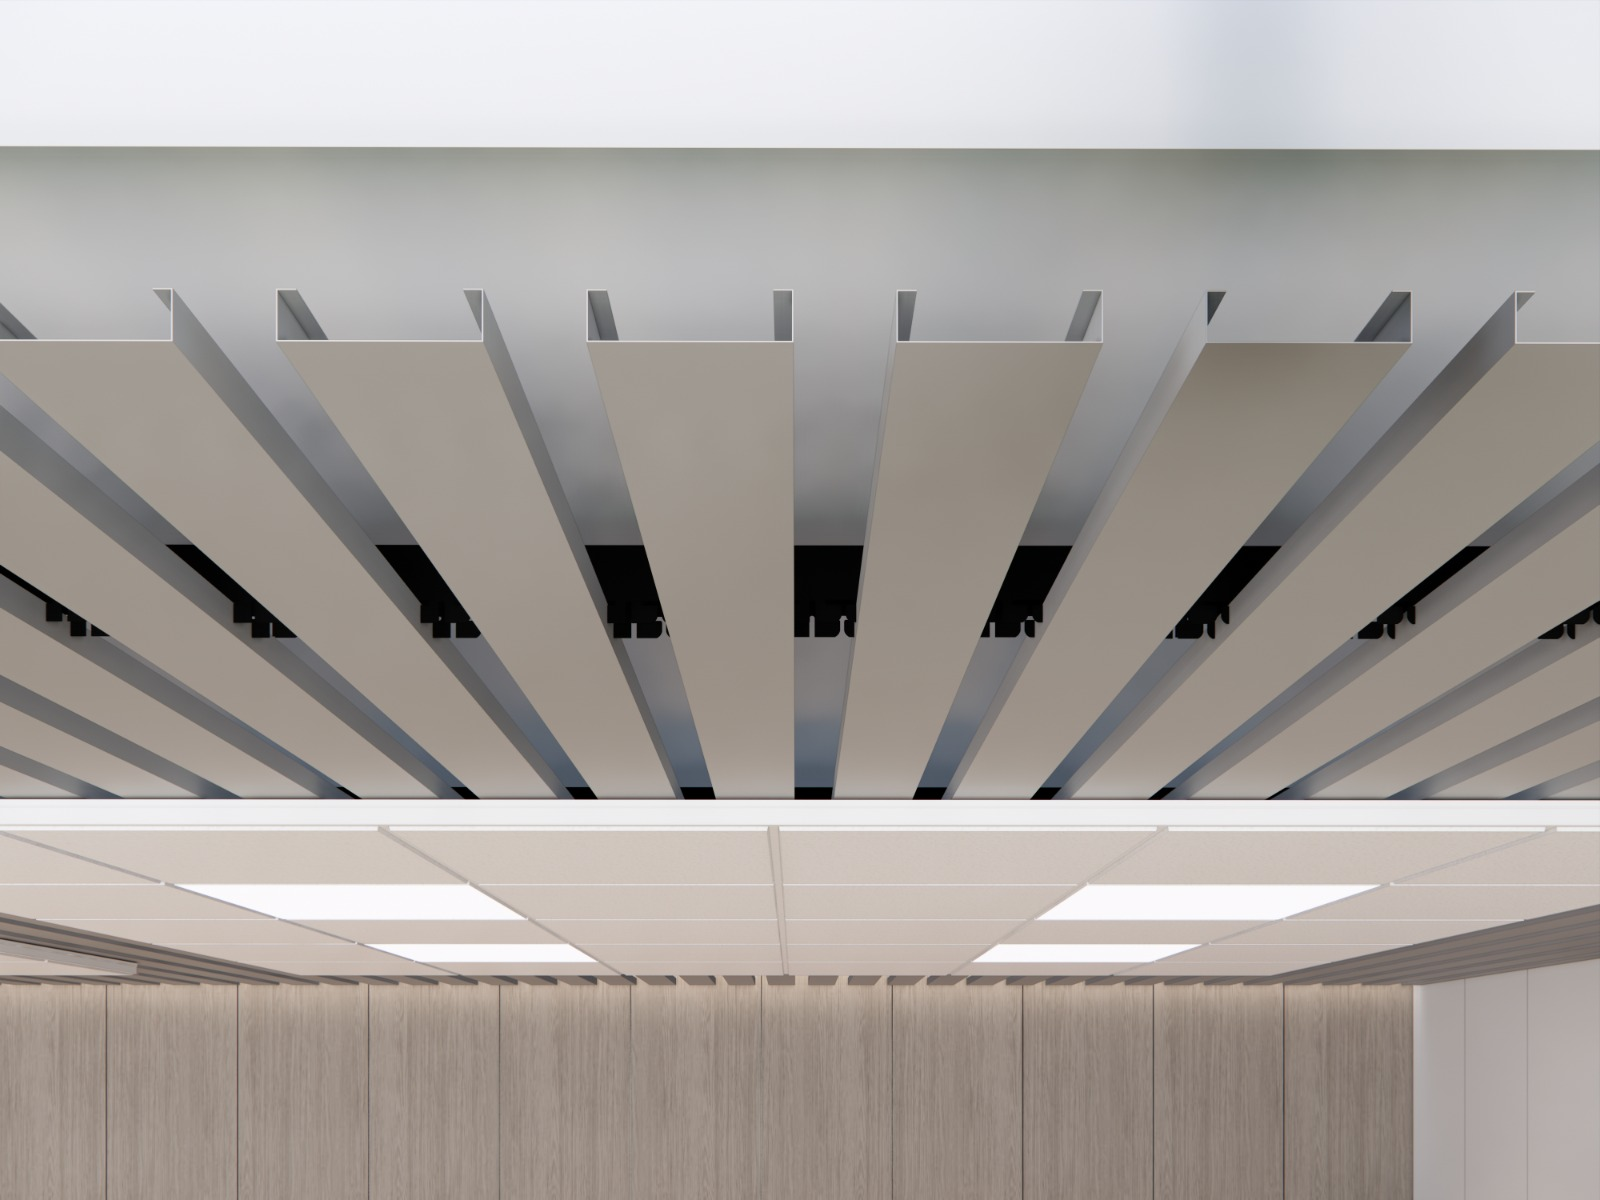
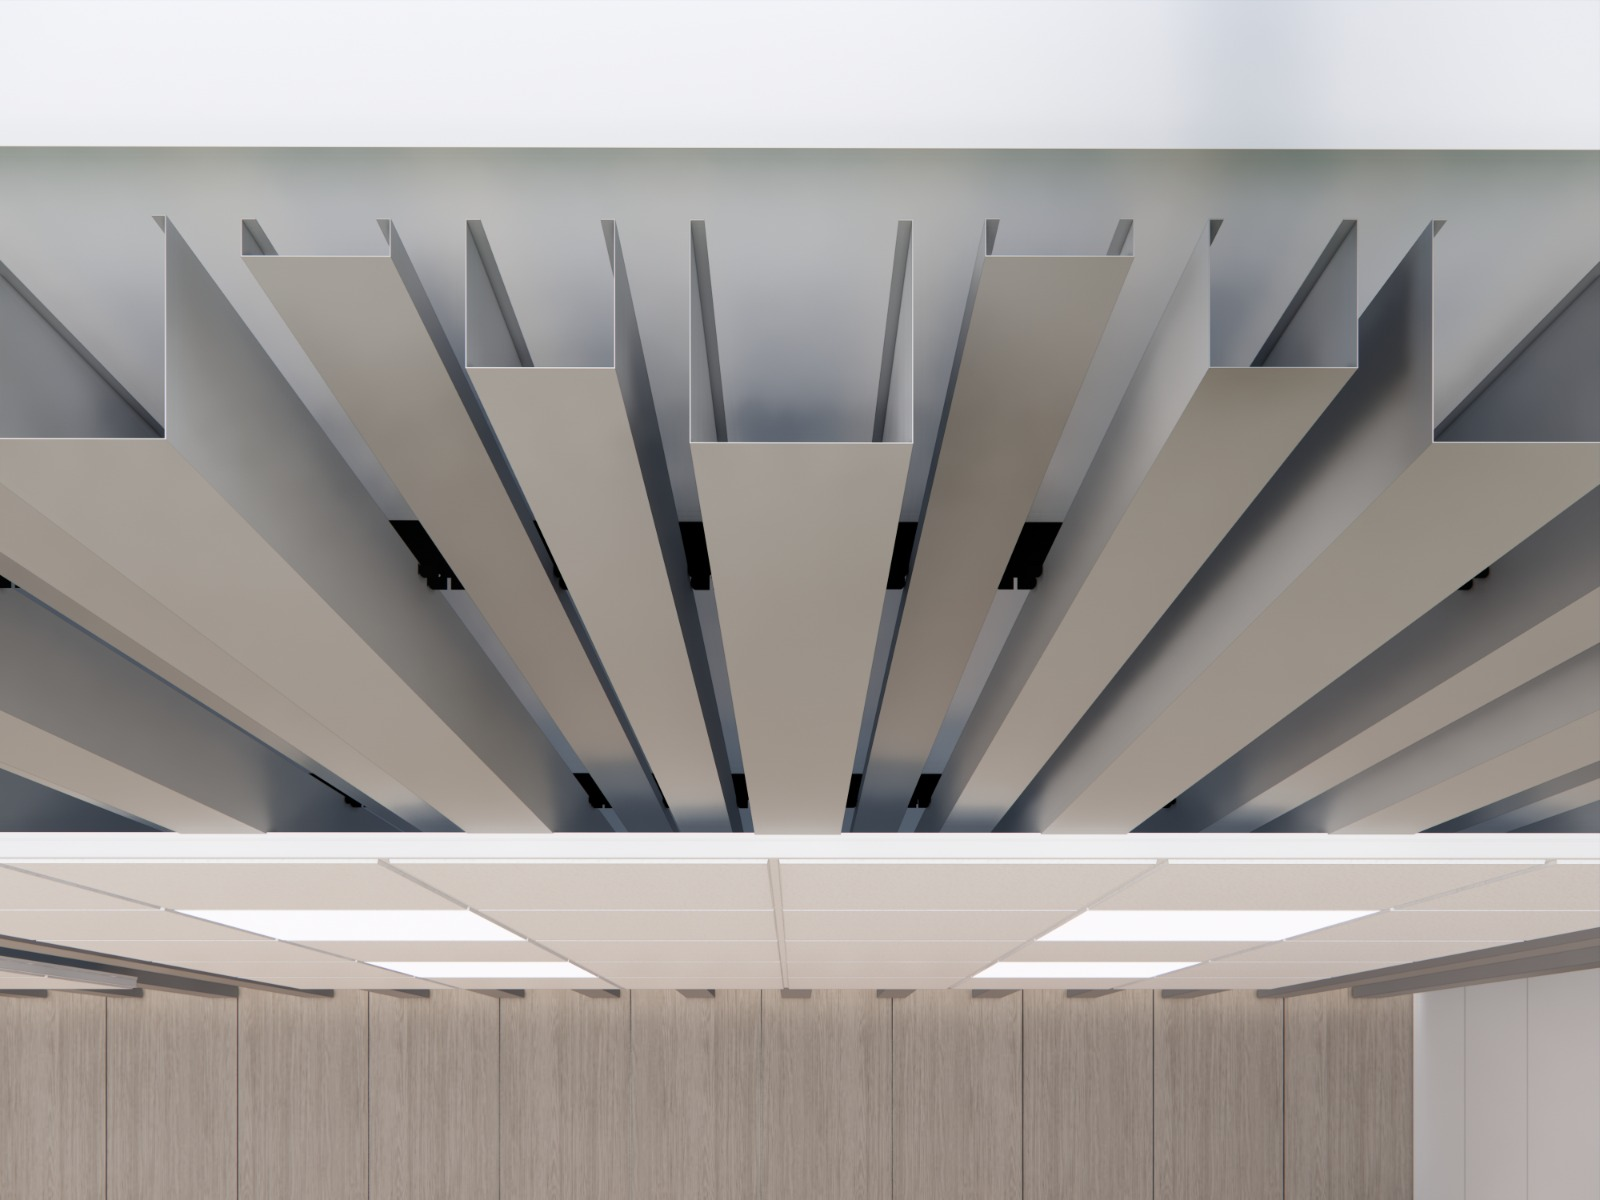
change photos and add copy section

diff --git a/src/components/MarketingCopy/index.jsx b/src/components/MarketingCopy/index.jsx
@@ -1,0 +1,15 @@
+import { Col, Row } from "react-bootstrap";
+import styles from './MarketingCopy.module.scss';
+
+export default function MarketingCopy() {
+  return (
+    <Row>
+      <Col md={12} className={styles.copyContainer}>
+        <h1 className={styles.title}>Who we are!</h1>
+        <h6 className={styles.copy}>
+          Since our inception in 2007, Celestia Design has been dedicated to crafting products that embody the beauty and complexity of the universe. Inspired by celestial patterns, we create innovative designs that not only captivate the eye but also inspire awe. Based in Surat, Gujarat, India, our manufacturing facility specializes in high-quality metal ceilings, louvers, and extruded windows. We are committed to pushing the boundaries of design, seamlessly blending creativity with practicality to deliver products that leave a lasting impression.At Celestia Design, we take pride in our ability to transform ideas into reality, ensuring that each creation brings a touch of magic to your space. Join us on our journey to explore the extraordinary!
+        </h6>
+      </Col>
+    </Row>
+  );
+}

diff --git a/src/pages/index.js b/src/pages/index.js
@@ -1,8 +1,7 @@
 import ControlledCarousel from "@/components/Carousel";
 import HeroSection from "@/components/HeroSection";
-import NavBar from "@/components/NavBar";
+import MarketingCopy from "@/components/MarketingCopy";
 import Products from "@/components/Products";
-import Section from "@/components/Section";
 import { Col, Container, Row } from "react-bootstrap";
 
 export default function Home() {
@@ -10,7 +9,7 @@ export default function Home() {
     <>
       <Container>
         {/* Make a hero container that has text and a CTA on the left and a carousel on the right */}
-        <Row>
+        <Row style={{ marginTop: "40px", marginBottom: "40px" }}>
           <Col md={5}>
             <HeroSection />
           </Col>
@@ -18,6 +17,7 @@ export default function Home() {
             <ControlledCarousel />
           </Col>
         </Row>
+        <MarketingCopy />
         <Products />
       </Container>
     </>

diff --git a/src/components/Carousel/index.js b/src/components/Carousel/index.js
@@ -13,7 +13,7 @@ function ControlledCarousel() {
     <Carousel activeIndex={index} onSelect={handleSelect}>
       <Carousel.Item>
         <Image
-          src={'/assets/carousel/1.jpeg'}
+          src={'/assets/carousel/2.jpeg'}
           alt="First slide"
           width={800}
           height={600}
@@ -25,7 +25,7 @@ function ControlledCarousel() {
       </Carousel.Item>
       <Carousel.Item>
         <Image
-          src={'/assets/carousel/2.jpeg'}
+          src={'/assets/carousel/1.jpeg'}
           alt="First slide"
           width={800}
           height={600}
@@ -37,7 +37,7 @@ function ControlledCarousel() {
       </Carousel.Item>
       <Carousel.Item>
         <Image
-          src={'/assets/carousel/4.jpeg'}
+          src={'/assets/carousel/3.jpeg'}
           alt="First slide"
           width={800}
           height={600}

diff --git a/src/components/Products/Products.module.scss b/src/components/Products/Products.module.scss
@@ -4,7 +4,7 @@
   flex-direction: column;
   align-items: center;
   justify-content: center;
-  margin: 80px 0;
+  margin: 40px 0;
 }
 
 .productRow {

diff --git a/src/components/MarketingCopy/MarketingCopy.module.scss b/src/components/MarketingCopy/MarketingCopy.module.scss
@@ -1,0 +1,8 @@
+.copy {
+  text-align: justify;
+  padding: 24px 48px;
+}
+
+.copyContainer {
+  margin: 40px 0;
+}
